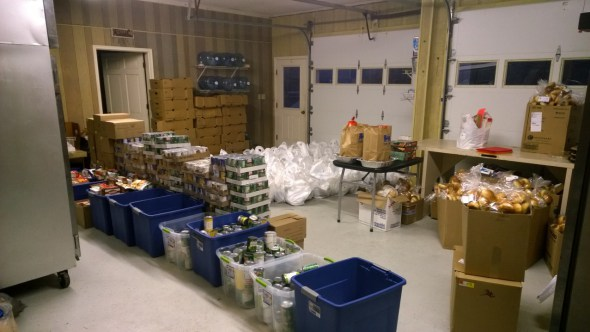
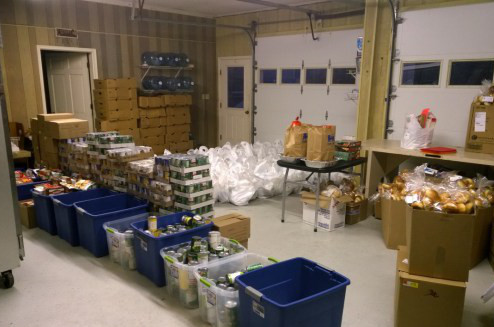
Rescaled backet packing party pictures

diff --git a/index.html b/index.html
@@ -106,7 +106,7 @@
                 <div class="col-lg-12 text-center">
                     <!-- <h2 class="section-heading">Services</h2> -->
                     <!-- <h3 class="section-subheading text-muted">Food, Wellness and Community</h3> -->
-                    <img src="img/need-logo.png" height="350px" />
+                    <img src="img/need-logo.png"  class="img-responsive img-centered"/>
                 </div>
             </div>
             <div class="row text-center">
@@ -153,6 +153,7 @@
                 </div>
             </div>
             <div class="row">
+                <div class="col-md-2 col-sm-6 portfolio-item"></div>
                 <div class="col-md-4 col-sm-6 portfolio-item">
                     <a href="#modalInTheKitchen" class="portfolio-link" data-toggle="modal">
                         <div class="portfolio-hover">
@@ -181,6 +182,9 @@
                         <p class="text-muted">Filling Thanksgiving and Easter baskets for our community.</p>
                     </div>
                 </div>
+                <div class="col-md-2 col-sm-6 portfolio-item"></div>
+            </div>
+            <div class="row">
                 <div class="col-md-4 col-sm-6 portfolio-item">
                     <a href="#modalJoyProm" class="portfolio-link" data-toggle="modal">
                         <div class="portfolio-hover">
@@ -223,7 +227,7 @@
                         <p class="text-muted">The teachers had the dream. We had the food.</p>
                     </div>
                 </div>
-                <div class="col-md-4 col-sm-6 portfolio-item">
+<!--                 <div class="col-md-4 col-sm-6 portfolio-item">
                     <a href="#modalBradfordPark" class="portfolio-link" data-toggle="modal">
                         <div class="portfolio-hover">
                             <div class="portfolio-hover-content">
@@ -237,7 +241,8 @@
                         <p class="text-muted">Delivering more than just food. Making new friends.</p>
                     </div>
                 </div>
-            </div>
+ -->
+             </div>
         </div>
     </section>
 
@@ -644,6 +649,13 @@
                             <img class="img-responsive img-centered" src="img/inthekitchen/image40.jpg" alt="">
                             <img class="img-responsive img-centered" src="img/inthekitchen/image41.jpg" alt="">
                             <img class="img-responsive img-centered" src="img/inthekitchen/image42.jpg" alt="">
+                            <img class="img-responsive img-centered" src="img/bradfordpark/Optimized-20140403_173416.jpg" alt="">
+                            <img class="img-responsive img-centered" src="img/bradfordpark/Optimized-20150115_171449.jpg" alt="">
+                            <img class="img-responsive img-centered" src="img/bradfordpark/Optimized-20150115_171910.jpg" alt="">
+                            <img class="img-responsive img-centered" src="img/bradfordpark/Optimized-20150115_172702.jpg" alt="">
+                            <img class="img-responsive img-centered" src="img/bradfordpark/Optimized-20150115_173517.jpg" alt="">
+                            <img class="img-responsive img-centered" src="img/bradfordpark/Optimized-20150115_174321.jpg" alt="">
+                            <img class="img-responsive img-centered" src="img/bradfordpark/Optimized-20150115_181244.jpg" alt="">
                             <button type="button" class="btn btn-primary" data-dismiss="modal"><i class="fa fa-times"></i> Close Project</button>
                         </div>
                     </div>
@@ -823,7 +835,7 @@
             </div>
         </div>
     </div>
-    <div class="portfolio-modal modal fade" id="modalBradfordPark" tabindex="-1" role="dialog" aria-hidden="true">
+<!--     <div class="portfolio-modal modal fade" id="modalBradfordPark" tabindex="-1" role="dialog" aria-hidden="true">
         <div class="modal-content">
             <div class="close-modal" data-dismiss="modal">
                 <div class="lr">
@@ -835,7 +847,6 @@
                 <div class="row">
                     <div class="col-lg-8 col-lg-offset-2">
                         <div class="modal-body">
-                            <!-- Project Details Go Here -->
                             <h2>Bradford Park Community</h2>
                             <p class="item-intro text-muted">One of our earliest relationships. We have made so many close and dear friends.</p>
                             <img class="img-responsive img-centered" src="img/bradfordpark/Optimized-20140403_173416.jpg" alt="">
@@ -853,7 +864,7 @@
             </div>
         </div>
     </div>
-
+ -->
 
     <!-- jQuery -->
     <script src="js/jquery.js"></script>

diff --git a/css/agency.css b/css/agency.css
@@ -304,6 +304,9 @@ section h3.section-subheading {
     padding: 150px 0;
   }
 }
+section#services {
+  padding-top: 100px;
+}
 .service-heading {
   margin: 15px 0;
   text-transform: none;

diff --git a/less/agency.less b/less/agency.less
@@ -260,6 +260,10 @@ section {
 
 // Services Section
 
+section#services {
+	padding-top: 100px;
+}
+
 .service-heading {
 	margin: 15px 0;
 	text-transform: none;
